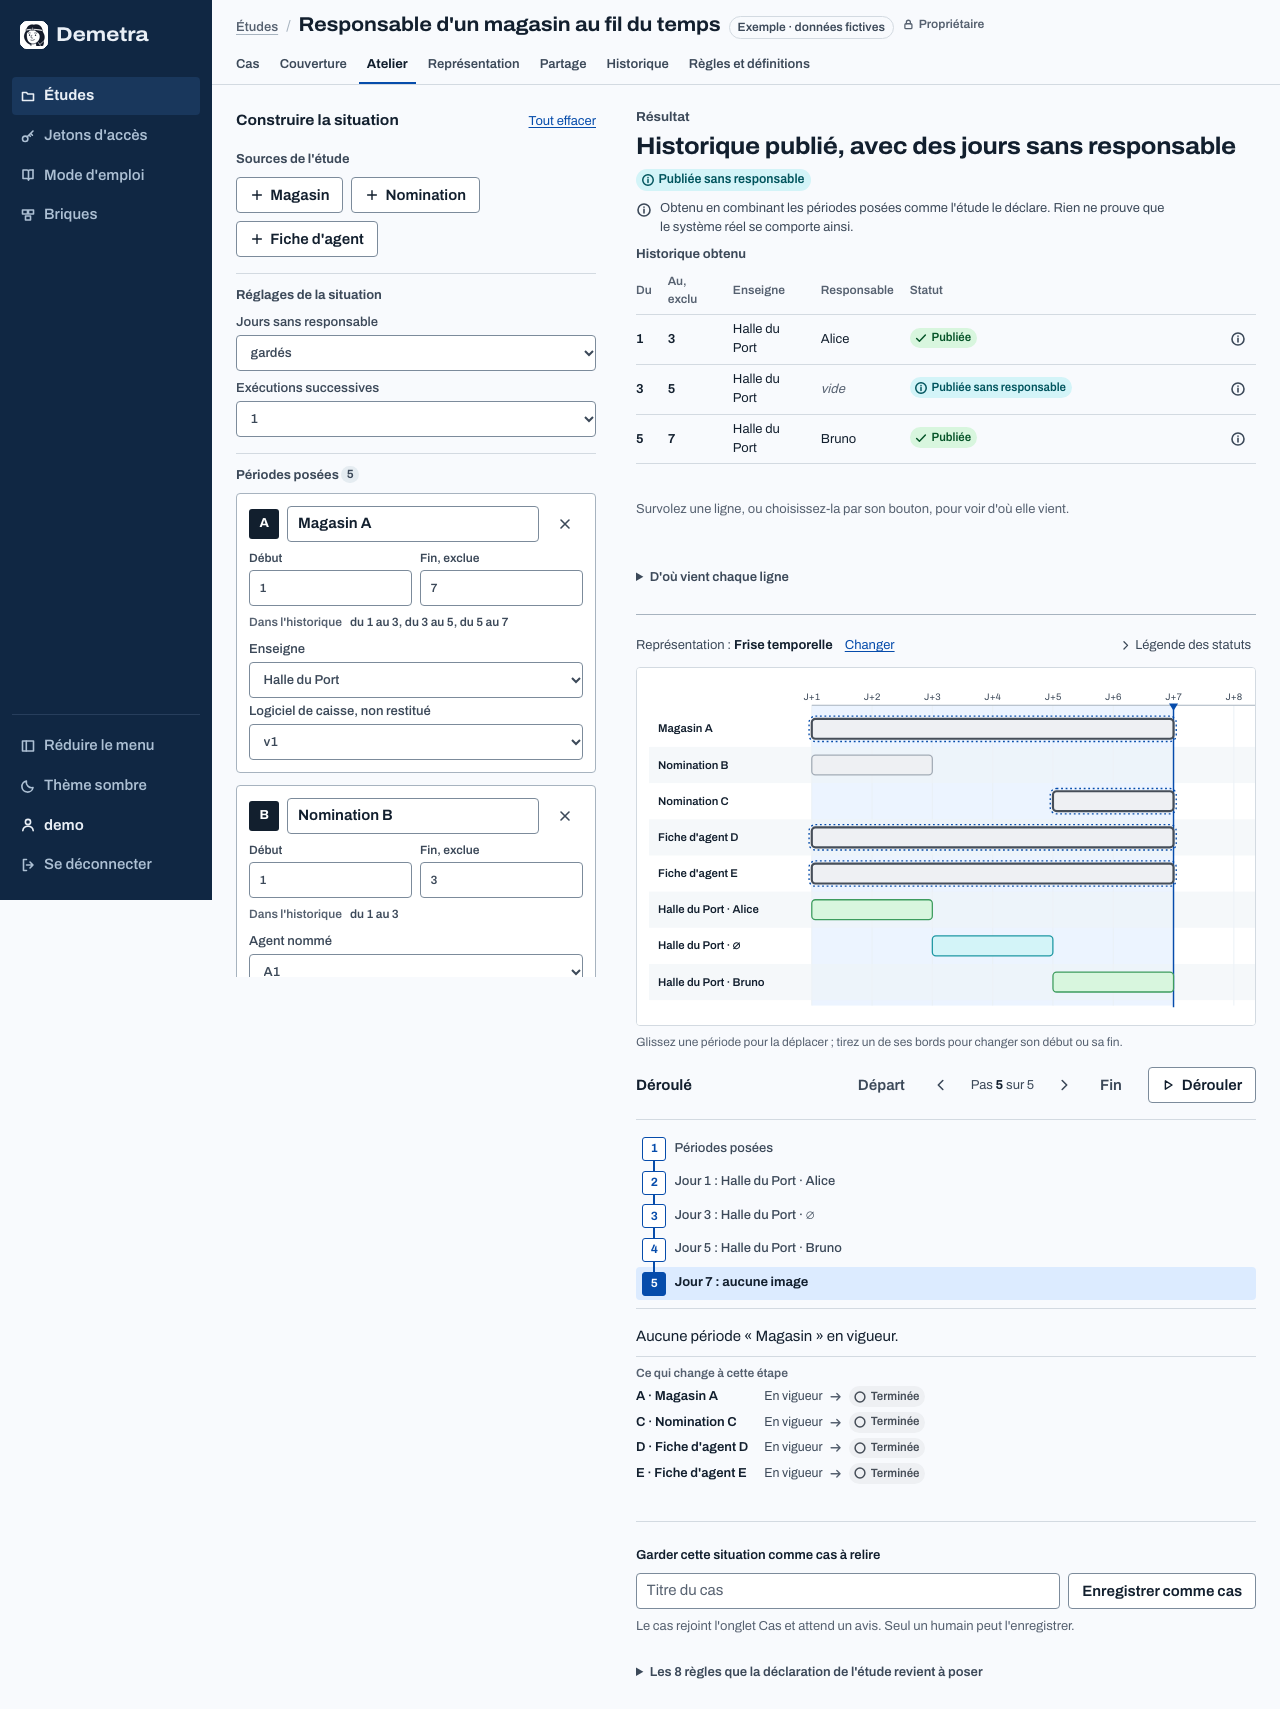
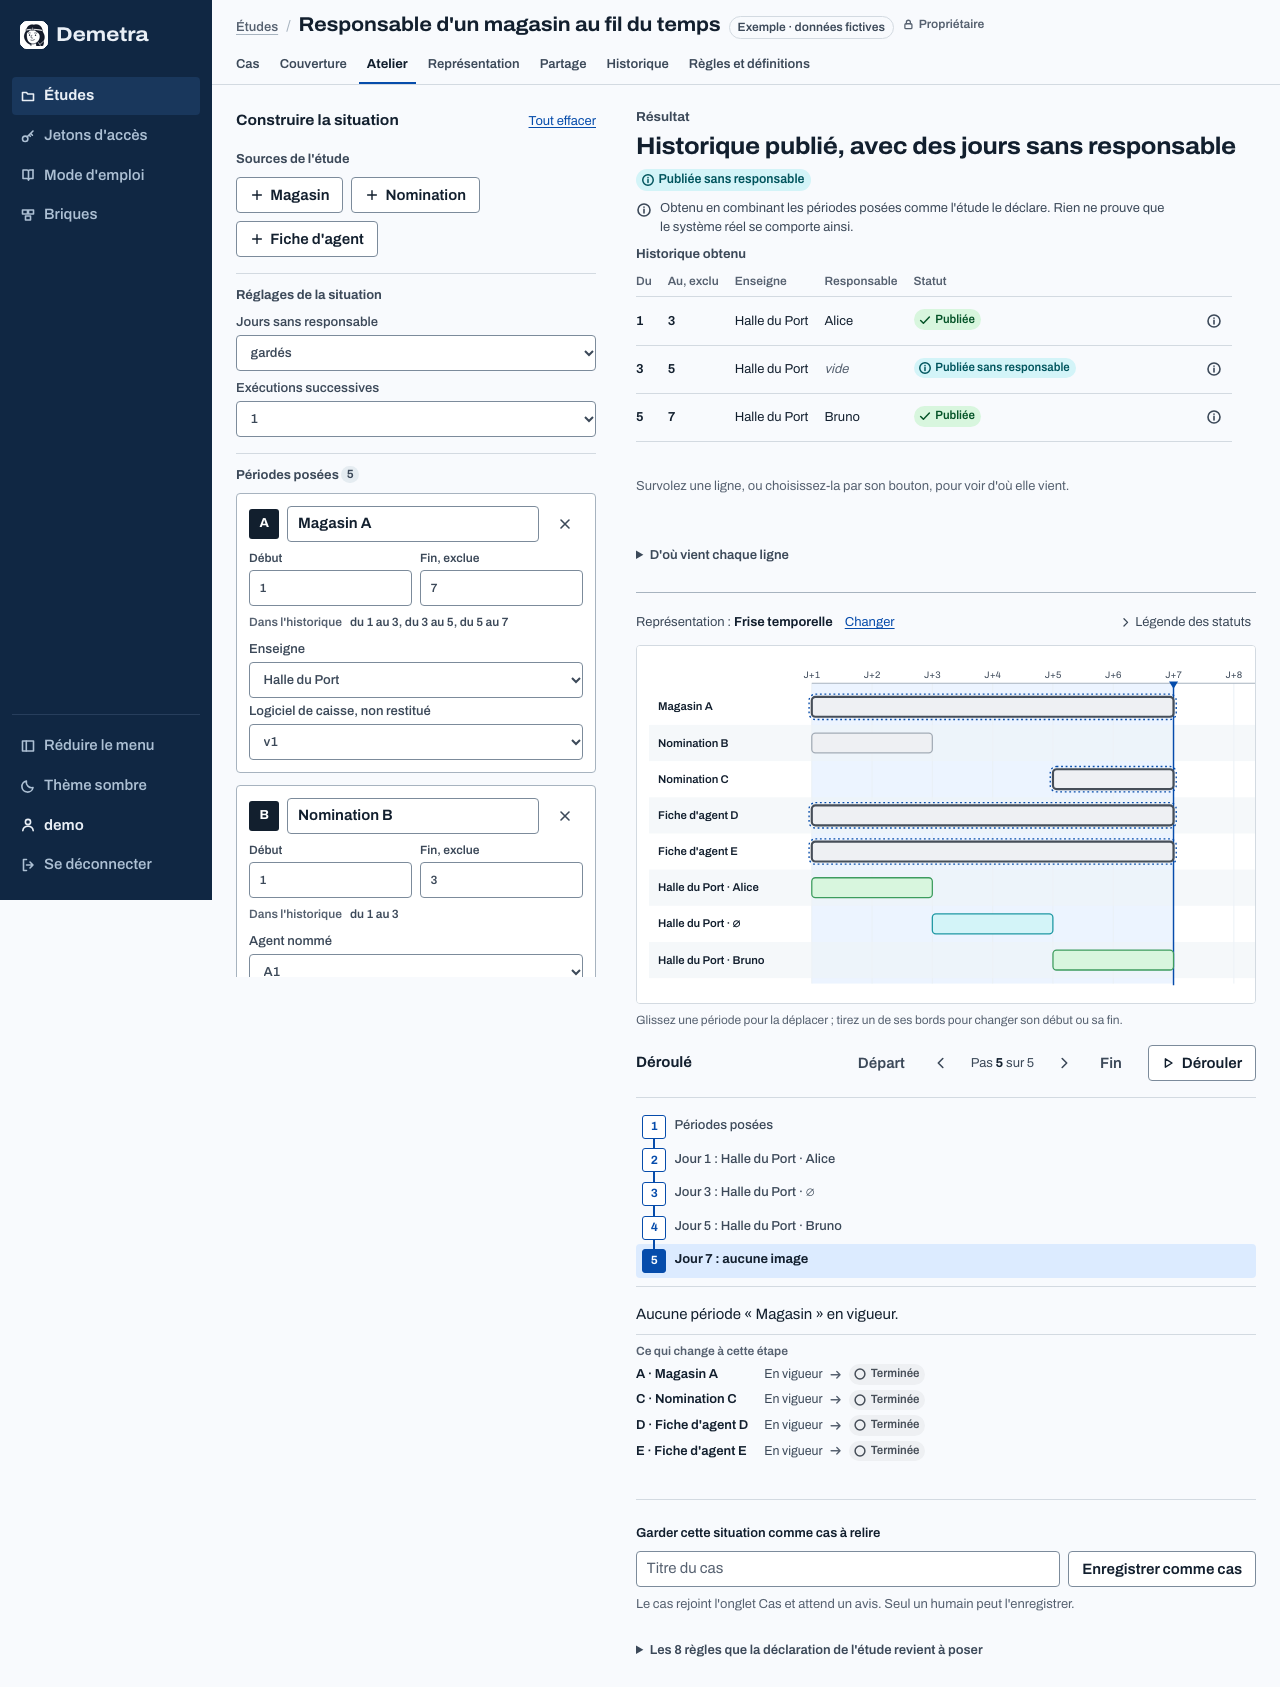
Tenir les tableaux d'exécution dans un téléphone, statut compris
Suite de la revue de finition (seconde et troisième passes) :

- Sous 900 px, le mot du changement d'une exécution passe sur sa propre
  ligne, au-dessus de la ligne qu'il qualifie ; au-dessus, il reste en
  première colonne. Une seule écriture est affichée à la fois. Chaque
  tableau d'exécution tient alors dans la fenêtre, statut compris.
- Sur petit écran, la pastille de statut passe à la ligne, en étiquette,
  dans tous les tableaux de l'atelier.
- La réserve du mot du dernier geste est ramenée à 8.75rem : les
  colonnes du tableau principal retrouvent leur largeur.
- À l'écran, le deux-points de « à l'écriture : » ne part plus seul en
  début de ligne.
- Parcours navigateur : contrôle à 390 px des tableaux d'exécution.
- DESIGN, brief de surface (revue passée, ce qui reste au goût),
  captures.

diff --git a/core/templates/core/_workshop.html b/core/templates/core/_workshop.html
@@ -164,8 +164,10 @@
             <caption class="sr-only">Ce qui est publié après {{ run.title }}</caption>
             <thead><tr><th scope="col" class="at-row-start"><span class="sr-only">Ce que fait cette exécution</span></th><th scope="col">Du</th><th scope="col">Au, exclu</th>{% for name in result.history.fields %}<th scope="col">{{ name }}</th>{% endfor %}<th scope="col">Statut</th></tr></thead>
             <tbody>
-              {% for row in run.lines %}<tr{% if row.row %} class="{{ row.row }}"{% endif %} data-change="{{ row.change }}"><td class="at-row-start"><span class="at-delta at-delta-{{ row.change }}"{% if row.was %} title="Avant : {{ row.was }}"{% endif %}><svg class="ic" aria-hidden="true"><use href="#ui-{{ row.icon }}"/></svg>{{ row.word }}</span>{% if row.was %}<span class="sr-only"> Avant : {{ row.was }}.</span>{% endif %}</td><td class="num">{{ row.start }}</td><td class="num">{{ row.end }}</td>{% for value in row.values %}<td>{% if value %}{{ value }}{% else %}<span class="at-void">vide</span>{% endif %}</td>{% endfor %}<td><span class="st" data-role="{{ row.role }}"><svg class="st-ic" width="14" height="14" aria-hidden="true"><use href="#ic-{{ row.role }}"/></svg><span class="st-tx">{{ row.status }}</span></span></td></tr>
-              {% endfor %}{% for row in run.removed %}<tr class="is-gone" data-change="removed"><td class="at-row-start"><span class="at-delta at-delta-removed"><svg class="ic" aria-hidden="true"><use href="#ui-close"/></svg>{{ row.word }}</span></td><td colspan="{{ result.history.fields|length|add:3 }}"><del>{{ row.text }}</del></td></tr>
+              {% for row in run.lines %}<tr class="at-run-mark"><td colspan="{{ result.history.fields|length|add:3 }}"><span class="at-delta at-delta-{{ row.change }}"{% if row.was %} title="Avant : {{ row.was }}"{% endif %}><svg class="ic" aria-hidden="true"><use href="#ui-{{ row.icon }}"/></svg>{{ row.word }}</span>{% if row.was %}<span class="sr-only"> Avant : {{ row.was }}.</span>{% endif %}</td></tr>
+              <tr{% if row.row %} class="{{ row.row }}"{% endif %} data-change="{{ row.change }}"><td class="at-row-start"><span class="at-delta at-delta-{{ row.change }}"{% if row.was %} title="Avant : {{ row.was }}"{% endif %}><svg class="ic" aria-hidden="true"><use href="#ui-{{ row.icon }}"/></svg>{{ row.word }}</span>{% if row.was %}<span class="sr-only"> Avant : {{ row.was }}.</span>{% endif %}</td><td class="num">{{ row.start }}</td><td class="num">{{ row.end }}</td>{% for value in row.values %}<td>{% if value %}{{ value }}{% else %}<span class="at-void">vide</span>{% endif %}</td>{% endfor %}<td><span class="st" data-role="{{ row.role }}"><svg class="st-ic" width="14" height="14" aria-hidden="true"><use href="#ic-{{ row.role }}"/></svg><span class="st-tx">{{ row.status }}</span></span></td></tr>
+              {% endfor %}{% for row in run.removed %}<tr class="at-run-mark"><td colspan="{{ result.history.fields|length|add:3 }}"><span class="at-delta at-delta-removed"><svg class="ic" aria-hidden="true"><use href="#ui-close"/></svg>{{ row.word }}</span></td></tr>
+              <tr class="is-gone" data-change="removed"><td class="at-row-start"><span class="at-delta at-delta-removed"><svg class="ic" aria-hidden="true"><use href="#ui-close"/></svg>{{ row.word }}</span></td><td colspan="{{ result.history.fields|length|add:3 }}"><del>{{ row.text }}</del></td></tr>
               {% endfor %}
             </tbody>
           </table>

diff --git a/core/static/core/app.css b/core/static/core/app.css
@@ -846,7 +846,7 @@ details.json pre { margin-top: var(--s-2); max-height: 24rem; }
 .at-why-btn { display: none; }
 .at-why-btn:focus-visible { outline-offset: -2px; }   /* dans un cadre qui défile : l'anneau reste entier */
 /* La place du mot du dernier geste est réservée : le tableau ne s'élargit pas quand les marques arrivent. */
-.atelier.is-live .at-history [data-delta-cell] { min-width: 10.5rem; }
+.atelier.is-live .at-history [data-delta-cell] { min-width: 8.75rem; }
 .atelier.is-live .at-why-btn { display: inline-grid; }
 .at-why-btn[aria-pressed="true"] { background: var(--accent-soft); color: var(--accent); }
 .atelier.is-live .at-history tbody tr[data-start] { cursor: pointer; }
@@ -906,6 +906,9 @@ details.json pre { margin-top: var(--s-2); max-height: 24rem; }
 /* Dans un tableau d'exécution, le mot du changement ouvre la ligne : il reste en vue quand le tableau défile. */
 .at-history .at-row-start { width: 1%; white-space: nowrap; }
 .at-history .at-row-start .at-delta { margin-right: 0; }
+/* Sur petit écran (voir plus bas), le mot passe sur sa propre ligne, au-dessus de la ligne qu'il qualifie : le
+   tableau tient alors dans la fenêtre, statut compris. Les deux écritures ne sont jamais affichées ensemble. */
+.at-history .at-run-mark { display: none; }
 .at-blocking { margin-top: var(--s-1); padding-left: 1.1em; list-style: disc; }
 .at-source { display: flex; gap: var(--s-2); align-items: flex-start; max-width: 72ch; color: var(--ink-2); font-size: var(--t-sm); }
 .at-source .ic { flex: none; margin-top: 0.2em; }
@@ -971,9 +974,14 @@ details.json pre { margin-top: var(--s-2); max-height: 24rem; }
   .at-history { min-width: 0; }
   .at-history .at-row-end { position: static; }
   .at-history th, .at-history td { padding-right: var(--s-2); }
-  /* Le tableau principal tient dans la fenêtre : sa pastille de statut passe à la ligne, en étiquette. */
-  .at-history:not(.at-history-run) .st { border-radius: var(--radius-lg); white-space: normal; }
+  /* Le tableau se resserre : sa pastille de statut passe à la ligne, en étiquette. */
+  .at-history .st { border-radius: var(--radius-lg); white-space: normal; }
   .atelier.is-live .at-history [data-delta-cell] { min-width: 0; }
+  .at-history-run .at-row-start { display: none; }
+  .at-history .at-run-mark { display: table-row; }
+  .at-history .at-run-mark > td { padding-top: var(--s-2); padding-bottom: 0; border-bottom: 0; }
+  .at-history .at-run-mark .at-delta { margin-right: 0; }
+  .at-history-run tr[data-change] > td { padding-top: 0.2rem; }
   .atelier.is-live .at-trace { min-height: 7.6em; }
   .atelier.is-live .at-delta-note { min-height: 3em; }
   .tick { min-height: 2.75rem; }

diff --git a/tests/e2e/test_parcours.py b/tests/e2e/test_parcours.py
@@ -1097,7 +1097,8 @@ def test_atelier_executions_successives(site, browser):
     expect(runs.nth(1).locator(".at-run-known")).to_have_text(
         "Connues depuis cette exécution : Nomination C, Fiche d'agent E."
     )
-    expect(runs.nth(1).locator(".at-delta")).to_have_text(["inchangée", "fermée", "ajoutée"])
+    words = "tr[data-change] .at-delta"  # le mot en tête de ligne ; sur petit écran, il a sa propre ligne
+    expect(runs.nth(1).locator(words)).to_have_text(["inchangée", "fermée", "ajoutée"])
     expect(runs.nth(1).locator('tr[data-change="closed"] .at-delta')).to_have_attribute(
         "title", "Avant : du 3 au 7 · Halle du Port · vide · Publiée sans responsable"
     )
@@ -1108,7 +1109,7 @@ def test_atelier_executions_successives(site, browser):
         "1 ligne modifiée, 1 ligne inchangée et 1 ligne retirée ; "
         "à l'écriture : 2 lignes supprimées et 1 ligne écrite."
     )
-    expect(runs.nth(2).locator(".at-delta")).to_have_text(["modifiée", "inchangée", "retirée"])
+    expect(runs.nth(2).locator(words)).to_have_text(["modifiée", "inchangée", "retirée"])
     expect(runs.nth(2).locator("del")).to_have_text(
         "du 3 au 5 · Halle du Port · vide · Publiée sans responsable"
     )
@@ -1120,6 +1121,15 @@ def test_atelier_executions_successives(site, browser):
     assert page.url.endswith("&x=3") and "c.C=2" in page.url and "j.B=2" in page.url
     assert page.evaluate("document.documentElement.scrollWidth <= document.documentElement.clientWidth")
     shot(page, "49-atelier-executions", full_page=True)
+    # Sur un téléphone, le mot passe au-dessus de sa ligne : chaque tableau tient dans la fenêtre.
+    page.set_viewport_size({"width": 390, "height": 844})
+    expect(runs.nth(2).locator(".at-run-mark .at-delta")).to_have_text(["modifiée", "inchangée", "retirée"])
+    expect(runs.nth(2).locator(words).first).to_be_hidden()
+    assert page.evaluate(
+        "[...document.querySelectorAll('.at-run .at-history-wrap')]"
+        ".every(e => e.scrollWidth <= e.clientWidth)"
+    )
+    assert page.evaluate("document.documentElement.scrollWidth <= document.documentElement.clientWidth")
     assert not problems, problems
     context.close()
 

diff --git a/core/views/atelier.py b/core/views/atelier.py
@@ -338,7 +338,8 @@ def _runs(study: Study, extra: dict, sit: dict) -> list[dict]:
     names = {e["id"]: e["label"] for e in sit["elements"]}
     out = []
     for entry in runs:
-        said = entry["text"].partition(" : ")[2]
+        # À l'écran, le deux-points ne part jamais seul en début de ligne (espace insécable).
+        said = entry["text"].partition(" : ")[2].replace(" : ", "\u00a0: ")
         out.append(
             {
                 "n": entry["run"],

diff --git a/DESIGN.md b/DESIGN.md
@@ -498,7 +498,7 @@ Neuf représentations s'ajoutent aux sept premières ; elles suivent les mêmes 
 - **Rechargement.** Tout changement remplace la zone sans recharger la page ; le focus reste où il était, l'adresse suit et ne garde que la situation. Sans script, le bouton « Mettre à jour le résultat » fait de même en rechargeant. Aucune animation hors du défilement des pas.
 - **Sans règles.** Une étude qui ne déclare pas de règles montre un encadré `empty` : pourquoi il n'y a pas d'atelier, et un bouton vers ses cas.
 - **Atelier de périodes.** Même écran, mêmes places ; seuls les mots changent (« Sources de l'étude », « Périodes posées »). La fiche d'une période porte, sous son nom, deux champs numériques côte à côte, « Début » et « Fin, exclue », en chiffres tabulaires ; ni évènements ni liens. Une borne vidée reste vide : c'est une borne absente. À droite, sous le résultat, le tableau « Historique obtenu » : Du, Au (exclu), une colonne par champ restitué, le statut en pastille ; une valeur absente s'écrit « vide » en italique `ink-3` ; le tableau défile dans son cadre sous 390 px. Si le traitement est bloqué, un encadré `warning` le dit avant le tableau et liste les raisons. Dans le plan de travail, une frise garde une largeur minimale de 52rem et défile dans son cadre ; la phrase d'aide dit comment déplacer et étirer une période (voir « Frise manipulable »). La touche Entrée dans un champ met à jour le résultat.
-- **Exécutions successives.** Quand l'étude en déclare : un réglage « Exécutions successives » (liste de 1 au nombre permis) avec les autres réglages. À partir de 2, chaque fiche porte, sous ses bornes et dans la même grille à deux colonnes, « Connue à partir de » et « Jusqu'à » (listes : « Exécution 1 »… ; « la dernière » par défaut). Le tableau principal s'intitule « Historique obtenu à la dernière exécution » et un lien mène à la section. Celle-ci vient après le déroulé, avant l'enregistrement : titre `t-md`, une phrase d'aide, puis une exécution par bloc séparé d'un filet — son nom en `t-sm` gras, sa phrase en `ink`, les périodes découvertes ou perdues en `t-xs` `ink-2`, et le tableau de ce qu'elle publie, au gabarit de l'historique. Première colonne : le mot du changement dans le cartouche des marques, pour qu'il reste en vue quand le tableau défile dans son cadre sur petit écran — « ajoutée » (`accent`, plus), « fermée » (cadenas), « modifiée » (icône de changement), « retirée » (pointillé, sur une ligne barrée), « inchangée » (sans cadre, `ink-3`, coche) ; l'ancienne ligne en infobulle et pour les lecteurs d'écran. Rien n'est animé ; la section n'existe pas tant qu'il n'y a qu'une exécution.
+- **Exécutions successives.** Quand l'étude en déclare : un réglage « Exécutions successives » (liste de 1 au nombre permis) avec les autres réglages. À partir de 2, chaque fiche porte, sous ses bornes et dans la même grille à deux colonnes, « Connue à partir de » et « Jusqu'à » (listes : « Exécution 1 »… ; « la dernière » par défaut). Le tableau principal s'intitule « Historique obtenu à la dernière exécution » et un lien mène à la section. Celle-ci vient après le déroulé, avant l'enregistrement : titre `t-md`, une phrase d'aide, puis une exécution par bloc séparé d'un filet — son nom en `t-sm` gras, sa phrase en `ink`, les périodes découvertes ou perdues en `t-xs` `ink-2`, et le tableau de ce qu'elle publie, au gabarit de l'historique. Première colonne : le mot du changement dans le cartouche des marques ; sous 900 px, ce mot passe sur sa propre ligne au-dessus de la ligne qu'il qualifie, pour que le tableau tienne dans la fenêtre, statut compris — « ajoutée » (`accent`, plus), « fermée » (cadenas), « modifiée » (icône de changement), « retirée » (pointillé, sur une ligne barrée), « inchangée » (sans cadre, `ink-3`, coche) ; l'ancienne ligne en infobulle et pour les lecteurs d'écran. Rien n'est animé ; la section n'existe pas tant qu'il n'y a qu'une exécution.
 - **Frise manipulable.** Une période posée se saisit sur la frise : curseur `grab` sur la barre, `ew-resize` sur ses deux bords (zones de 7 à 13 px, sans dessin propre) ; au survol et pendant le geste, le contour passe en `accent`, 2 px. Glisser déplace la barre d'un nombre entier de pas de l'axe ; tirer un bord le cale sur la grille de l'axe, jamais au-delà de l'autre bord ni hors de l'axe. Pendant le geste seule la barre est redessinée : ni le schéma ni la page ne changent de dimensions, et la ligne d'aide, à hauteur figée, dit « Nomination B : du 1 au 4, fin exclue. ». Au lâcher, les deux champs de la fiche prennent ces valeurs ; Échap rend la barre. Un clic sans glisser mène à la fiche. Au doigt, le geste est le même : un toucher qui part d'une barre ou d'une brique ne fait défiler ni la frise ni la page (le script retient le défilement, `touch-action` ne suffisant pas sur les formes d'un dessin SVG) ; la frise défile par ses marges. Les barres de l'historique ne se saisissent pas. Aucune animation.
 - **Ce que le dernier geste a changé.** Dans la dernière colonne du tableau, un mot dans un cartouche à icône : « nouvelle » (contour et texte `accent`, icône plus), « modifiée » (contour `line-strong`, icône de changement, l'ancienne ligne en infobulle et pour les lecteurs d'écran), « disparue » (contour pointillé, icône de fermeture, sur une ligne barrée en `ink-3`). Aucun liseré latéral ne double le mot : le cartouche et son icône portent la marque. Une phrase sous le tableau compte les changements ou dit qu'il n'y en a pas. La place du mot est réservée dans la dernière colonne : le tableau ne s'élargit pas quand les marques arrivent. Cette colonne est collante à droite tant que la fenêtre dépasse 900 px ; en dessous, le tableau se resserre (la pastille de statut passe à la ligne, en étiquette à coins de 6 px) et défile en entier dans son cadre, pour que le statut ne passe jamais sous elle : le mot s'y lit en faisant défiler le tableau, la phrase qui compte les changements restant toujours en vue. Ce cadre, comme celui d'un schéma, s'atteint au clavier et s'annonce « défilement possible ». Les marques durent jusqu'au geste suivant.
 - **Provenance d'une ligne.** Chaque ligne de l'historique finit par un bouton à icône « info ». Survol, focus ou clic : la ligne passe en `accent-soft`, ses périodes sources gardent leur opacité sur la frise et prennent un halo `accent`, les autres barres tombent à 30 % ; les fiches concernées et les règles en cause prennent le liseré ou le fond d'accent. Une phrase sous le tableau, à hauteur réservée (rien ne bouge au survol), dit la période retenue par source et les règles ; au repos elle dit comment s'en servir, en `ink-3`. Un clic ou Entrée garde la ligne (`aria-pressed`), Échap la lâche. Sans script : le bouton et la phrase disparaissent, la liste repliable « D'où vient chaque ligne » reste. La fiche d'une période dit « Dans l'historique : du 1 au 3, du 3 au 5 », ou « aucune ligne » ; une période invalide ou ignorée garde sa pastille, sous « Hors du calcul ». Le compte des briques par état final n'est pas montré pour des périodes : le tableau le remplace.

diff --git a/.impeccable/surfaces/core-templates-core-workshop-html.md b/.impeccable/surfaces/core-templates-core-workshop-html.md
@@ -34,4 +34,4 @@ Demande de l'utilisateur, le 24 novembre 2026 : « C'est généralisable mainten
 
 Demande de l'utilisateur, le 25 novembre 2026 : « tu peux tout faire » (les améliorations proposées). Fait pour l'atelier de périodes : le déroulé va au bout de l'axe ; chaque ligne de l'historique dit d'où elle vient (survol, clic, clavier), et chaque fiche dit les lignes qu'elle alimente ; après chaque geste, l'historique marque ses lignes nouvelles, modifiées et disparues ; une période se déplace et s'étire à la souris sur la frise, calée sur le pas de l'axe ; une étude peut déclarer des exécutions successives, et l'écran montre ce que chacune ajoute, ferme, modifie, retire ou laisse.
 
-FINISH : revue de finition (`impeccable-finish-reviewer`) passée le 25 novembre 2026 sur les deux familles, à 1280 et 390 px, en clair et en sombre ; corrections matérielles appliquées (aucun liseré latéral sur une ligne marquée, tableau qui ne s'élargit plus quand les marques arrivent, statut jamais recouvert sur petit écran, cibles d'au moins 24 px, réserves de la provenance et du dernier geste, anneau de focus entier, mots de la famille « périodes », phrase d'une exécution, geste au doigt). Restent au goût, non traités : les titres des deux colonnes, la largeur minimale de la frise, la taille des graduations.
+FINISH : revue de finition (`impeccable-finish-reviewer`) passée le 25 novembre 2026 sur les deux familles, à 1280 et 390 px, en clair et en sombre ; corrections matérielles appliquées (aucun liseré latéral sur une ligne marquée, tableau qui ne s'élargit plus quand les marques arrivent, statut jamais recouvert sur petit écran, cibles d'au moins 24 px, réserves de la provenance et du dernier geste, anneau de focus entier, mots de la famille « périodes », phrase d'une exécution, geste au doigt). Trois passes : la dernière ne relève plus rien de matériel (disposition « ship »). Sur petit écran, le mot du changement d'une exécution passe sur sa propre ligne au-dessus de la ligne qu'il qualifie. Restent au goût, non traités : le cartouche du tableau principal coupé au bord du cadre à 390 px après un geste (il se lit en faisant défiler le tableau), la place du mot (en tête dans les exécutions, en fin de ligne dans le tableau principal), les blancs réservés à 390 px, les titres des deux colonnes, la largeur minimale de la frise, la taille des graduations, la barre « plus connue » peu visible en sombre. Jamais vus en capture par le relecteur : situation pleine, étude sans règles, lecteur sans droit d'enregistrer, situation qui ne se stabilise pas, page sans script.
